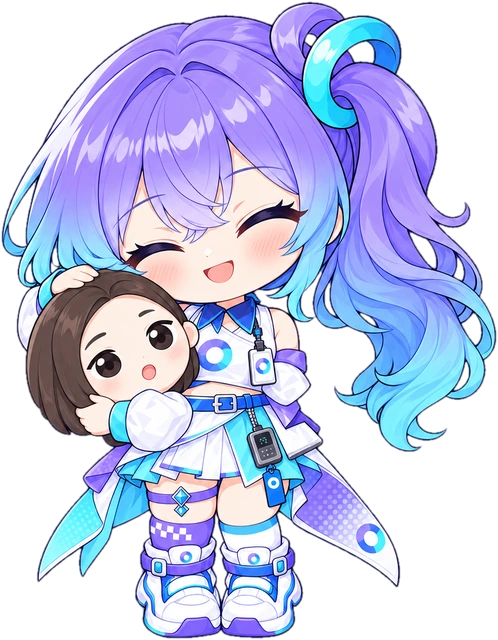
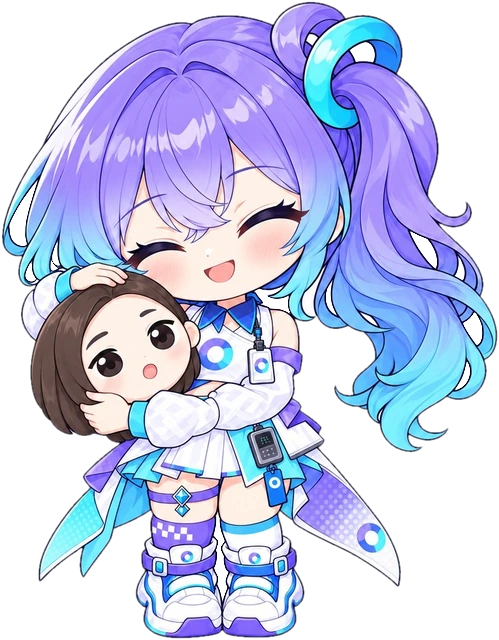
豆包：迷你小帮手一套；被摸头重画（原来的手是断的）

diff --git a/art/任务/2026-11-22-豆包-迷你小帮手/提示词/doubao__mini_more.md b/art/任务/2026-11-22-豆包-迷你小帮手/提示词/doubao__mini_more.md
@@ -1,0 +1,48 @@
+# 豆包 · mini_more · 迷你小帮手 · 第二张（跑步 3 帧 + 挥手、看书、着急）
+
+- 保存到：`art/任务/2026-11-22-豆包-迷你小帮手/成品/doubao__mini_more__vN.png`：N 换成下一个没用过的数字（还没有就是 v1，已经有 v1、v2 就存 v3）。**每画一次都存新的一版，不要覆盖、删除、挪走旧的**（PNG，透明背景，生图时开 `transparent_background: true`）
+- 附件（按顺序附上）：
+  1. `art/任务/2026-11-22-豆包-迷你小帮手/成品/doubao__mini__vN.png`（底图：mini（本批画好的那张：loki 在验收页选了哪版就用哪版，没选用版本号最大的））　⚠ 文件还不存在：先画它
+  2. `art/原图/doubao/idle/v1.png`（设计参考）
+
+## 提示词
+
+```text
+Create a second sprite sheet for the SAME tiny "mini helper" as the first attachment. The first attachment is her approved mini sheet (idle, happy, sleep, walk): copy that exact mini — same head size, face, eyes, hair, hair ornaments on the same side, outfit, colors, signature prop, outline weight and shading. It must look like more frames from the same sheet, not a new design. The other attachments are the approved big character design, for colors only. Do not draw the big character. It is shown at about 100 pixels tall next to her, so it must read clearly when small.
+
+LAYOUT: One landscape image, 1536x1024, with a real transparent background (transparent_background: true). Exactly six minis in a 3-column x 2-row grid, one per cell, each centered in its cell and drawn at the same scale as each other and as the minis in the first attachment (each about 360 px tall when standing). Leave wide transparent gaps: no part of one mini may touch another mini or the image edge.
+
+TOP ROW, left to right: a 3-frame run cycle, all three running toward the viewer's RIGHT in three-quarter view, the same angle as the walk pose in the first attachment, her signature prop tucked under one arm or held in one hand. Same head size and same body proportions in all three frames; only the legs, arms, hair and skirt move.
+1. run-a: her near (front) leg stretched forward with the heel just touching the ground, back leg pushing off behind her, opposite arm swinging forward; body slightly low.
+2. run-b: passing pose: body at its highest, both feet off the ground, one knee bent up under her, legs close together; hair and skirt lifted a little.
+3. run-c: the mirror step of run-a: her far (back) leg now stretched forward touching the ground and the near leg pushing off behind; the other arm swinging forward; body slightly low.
+
+BOTTOM ROW, left to right:
+4. wave: standing and facing the viewer, cheerful smile, one hand raised high waving, her signature prop held against her chest with the other arm.
+5. read: sitting on the ground with legs out in front, a small book open on her lap, looking down reading it, calm content face.
+6. worried: standing and facing the viewer, hugging her signature prop tightly to her chest with both arms, eyebrows raised in worry, small wobbly mouth.
+
+FORMAT: A thick, continuous dark outline around each whole silhouette; flat two-tone cel shading; few, chunky details and no thin lines that vanish when shrunk. No floor, ground line, cast shadow, motion lines, dust, glow, frame, text, letters, numbers, symbols, hearts, sweat drops, sparkles or other effects: the app draws all effects itself.
+
+CHARACTER LOCK — Doubao, the anime-girl personification of Doubao (ByteDance's AI assistant, built by the Seed team). A bright, friendly, chatty everyday helper: cheerful, quick to react, a little scatterbrained, always ready to chat. Her default face is a big happy open-mouthed smile.
+Keep exactly (match the attached reference):
+- Long wavy hair, lavender-purple at the top fading to aqua-cyan toward the tips; side bangs; a high side ponytail on HER LEFT side (viewer's right), tied with two glossy ring-shaped hair ornaments (one purple, one aqua-cyan) and a small looped bun. Do not mirror the ponytail.
+- Big round violet eyes, light pink blush; a thin dark upper lash line without a heavy winged tip.
+- A white sleeveless cropped top with a dark-blue pointed collar and a large purple-blue ring logo on the chest; a lanyard with a small white ID badge showing the ring logo.
+- Detached puffy white sleeves with purple bands at the upper arm and aqua-cyan cuffs.
+- A blue belt with a silver buckle; a small grey digital voice recorder hanging from the belt on a short chain, with a blue tag (ring logo only).
+- A white pleated mini skirt over an aqua layer; long asymmetric translucent coat-tails behind and beside the skirt, fading from purple to aqua-cyan, with a dotted halftone pattern and a ring logo on the viewer's right tail.
+- On HER RIGHT thigh (viewer's left): a thin purple garter with a small aqua diamond.
+- Mismatched socks: HER RIGHT leg (viewer's left) a purple sock with a small white checker band; HER LEFT leg (viewer's right) a white sock with an aqua-blue band.
+- Chunky white high-top sneakers with blue and purple straps.
+- No text, letters or numbers anywhere on her clothes, badges or props; the ring logo has no word under it.
+- SIGNATURE PROP, THE DOUBAO MASCOT HEAD: a soft plush mascot head (a costume head she can wear) in the style of the Doubao app icon: a round pale face with a brown bob haircut, small round black eyes, tiny eyebrows and a small round "o" mouth, the same size as in the reference. It is a soft prop, not a second character: its face never changes expression. By default she hugs it under one arm. When the pose does not mention it, it is not in the picture; it never floats or sits apart from her. When she WEARS it over her head, her own ponytail with the ring ornaments still sticks out on HER LEFT side so she stays recognizable, and the worn head never goes higher than the HEIGHT LOCK.
+- SIGNATURE PROP, THE SPINNING STAR: a small solid four-pointed spinning-top star with a glossy gradient from gold-orange to sky blue. Only when the pose mentions it; it rests on or touches her hand. No glow, no orbit lines, no sparkles.
+- PROPORTIONS: the same chibi proportions as the reference: big round head with the chin at about 45% of her height, short soft chubby legs (skirt hem to soles about 20% of her height), short stubby arms.
+- HEIGHT LOCK: the top of her looped bun and ring ornaments is the highest point of the image, at the same height as in the reference. Nothing (hands, props, the mascot head) may go higher than it, so every sprite keeps the same scale.
+Palette: white, lavender-purple, aqua-cyan and royal blue, with the brown of the mascot head. No other strong colors.
+How she shows emotion: big open expressions, bouncing on her toes, the ponytail swinging, and the mascot head: she hugs it when happy, squeezes it when nervous, hides behind it when shy, and pulls it on over her head when she is embarrassed or sulking.
+
+POSE (mini_more): Her tiny helper look from the attached mini sheet, with the same tiny plush mascot head (not the spinning star). The PROPORTIONS and HEIGHT LOCK lines above are for the full-size character; match the attached mini sheet's proportions and scale instead.
+Save as: doubao__mini_more__vN.png
+```

diff --git a/art/任务/2026-11-22-豆包-迷你小帮手/提示词/doubao__mini.md b/art/任务/2026-11-22-豆包-迷你小帮手/提示词/doubao__mini.md
@@ -1,0 +1,47 @@
+# 豆包 · mini · 迷你小帮手（好感度礼物）
+
+- 保存到：`art/任务/2026-11-22-豆包-迷你小帮手/成品/doubao__mini__vN.png`：N 换成下一个没用过的数字（还没有就是 v1，已经有 v1、v2 就存 v3）。**每画一次都存新的一版，不要覆盖、删除、挪走旧的**（PNG，透明背景，生图时开 `transparent_background: true`）
+- 附件（按顺序附上）：
+  1. `art/任务/2026-11-22-豆包-整套/成品/doubao__delegating__v1.png`（底图：delegating（现在用的那张））
+  2. `art/原图/doubao/idle/v1.png`（设计参考）
+  3. `docs/prompts/mini-style-claude.webp`（画风参考：只看小人的比例、线条和上色，不要照它画人物）
+
+## 提示词
+
+```text
+Create a sprite sheet of a tiny "mini helper" version of the approved character. It is a desktop-pet companion shown at about 50 pixels tall next to her, so it must read clearly when very small.
+
+REFERENCE: The first attachment (delegating) shows her sending out tiny helpers. The mini is always a tiny version of HER, never an animal, mascot or pet, even if the helpers in that image are animals. The LAST attachment is the approved mini sheet of another character in this app: match its proportions, head size, outline weight, flat shading and level of detail exactly so all the minis look like one set, but draw THIS character, not that one. The mini look: super-deformed, about 2 heads tall, very big head, short limbs, simplified outfit, but the same hair color and shape, hair ornament (on the same side), key outfit colors and signature prop, so it reads as her at a glance. The other attachments are the approved character design: follow them for colors and which side each ornament is on. Do not draw the big character.
+
+LAYOUT: One square image, at least 1024x1024, with a real transparent background (transparent_background: true). Exactly four minis of the same character in a 2x2 grid, one per quadrant, each centered in its quadrant and drawn at the same scale (each about 380 px tall). Leave wide transparent gaps: no part of one mini may touch another mini or the image edge.
+
+THE FOUR POSES, in this order (top-left, top-right, bottom-left, bottom-right):
+1. idle: standing and facing the viewer, small calm smile, holding her prop.
+2. happy: jumping with both arms raised (her prop in one hand), eyes closed in a happy ^^ smile, both feet off the ground.
+3. sleep: sitting curled up and dozing, eyes closed, head tilted, prop hugged to her chest.
+4. walk: walking toward the viewer's RIGHT in three-quarter view, mid-step, prop under one arm.
+
+FORMAT: A thick, continuous dark outline around each whole silhouette; flat two-tone cel shading; few, chunky details and no thin lines that vanish when shrunk. No floor, cast shadow, glow, frame, text, letters, symbols, hearts, Zzz, sparkles or other effects: the app draws all effects itself.
+
+CHARACTER LOCK — Doubao, the anime-girl personification of Doubao (ByteDance's AI assistant, built by the Seed team). A bright, friendly, chatty everyday helper: cheerful, quick to react, a little scatterbrained, always ready to chat. Her default face is a big happy open-mouthed smile.
+Keep exactly (match the attached reference):
+- Long wavy hair, lavender-purple at the top fading to aqua-cyan toward the tips; side bangs; a high side ponytail on HER LEFT side (viewer's right), tied with two glossy ring-shaped hair ornaments (one purple, one aqua-cyan) and a small looped bun. Do not mirror the ponytail.
+- Big round violet eyes, light pink blush; a thin dark upper lash line without a heavy winged tip.
+- A white sleeveless cropped top with a dark-blue pointed collar and a large purple-blue ring logo on the chest; a lanyard with a small white ID badge showing the ring logo.
+- Detached puffy white sleeves with purple bands at the upper arm and aqua-cyan cuffs.
+- A blue belt with a silver buckle; a small grey digital voice recorder hanging from the belt on a short chain, with a blue tag (ring logo only).
+- A white pleated mini skirt over an aqua layer; long asymmetric translucent coat-tails behind and beside the skirt, fading from purple to aqua-cyan, with a dotted halftone pattern and a ring logo on the viewer's right tail.
+- On HER RIGHT thigh (viewer's left): a thin purple garter with a small aqua diamond.
+- Mismatched socks: HER RIGHT leg (viewer's left) a purple sock with a small white checker band; HER LEFT leg (viewer's right) a white sock with an aqua-blue band.
+- Chunky white high-top sneakers with blue and purple straps.
+- No text, letters or numbers anywhere on her clothes, badges or props; the ring logo has no word under it.
+- SIGNATURE PROP, THE DOUBAO MASCOT HEAD: a soft plush mascot head (a costume head she can wear) in the style of the Doubao app icon: a round pale face with a brown bob haircut, small round black eyes, tiny eyebrows and a small round "o" mouth, the same size as in the reference. It is a soft prop, not a second character: its face never changes expression. By default she hugs it under one arm. When the pose does not mention it, it is not in the picture; it never floats or sits apart from her. When she WEARS it over her head, her own ponytail with the ring ornaments still sticks out on HER LEFT side so she stays recognizable, and the worn head never goes higher than the HEIGHT LOCK.
+- SIGNATURE PROP, THE SPINNING STAR: a small solid four-pointed spinning-top star with a glossy gradient from gold-orange to sky blue. Only when the pose mentions it; it rests on or touches her hand. No glow, no orbit lines, no sparkles.
+- PROPORTIONS: the same chibi proportions as the reference: big round head with the chin at about 45% of her height, short soft chubby legs (skirt hem to soles about 20% of her height), short stubby arms.
+- HEIGHT LOCK: the top of her looped bun and ring ornaments is the highest point of the image, at the same height as in the reference. Nothing (hands, props, the mascot head) may go higher than it, so every sprite keeps the same scale.
+Palette: white, lavender-purple, aqua-cyan and royal blue, with the brown of the mascot head. No other strong colors.
+How she shows emotion: big open expressions, bouncing on her toes, the ponytail swinging, and the mascot head: she hugs it when happy, squeezes it when nervous, hides behind it when shy, and pulls it on over her head when she is embarrassed or sulking.
+
+POSE (mini): Her tiny helper look: a super-deformed mini of HER (never the mascot head on its own), hugging a shrunken plush mascot head under one arm. The PROPORTIONS and HEIGHT LOCK lines above are for the full-size character; for the mini follow the mini style reference instead (about 2 heads tall). Keep what reads at 50 px: the purple-to-aqua wavy hair, the high side ponytail with its two ring ornaments on HER LEFT side, the white cropped top with the ring logo, puffy white sleeves with aqua cuffs, the white skirt with two short purple-to-aqua coat-tails, the mismatched socks (purple on her right leg, white on her left) and white sneakers. Leave out the voice recorder, lanyard, badge and garter; no spinning star.
+Save as: doubao__mini__vN.png
+```

diff --git a/art/任务/2026-11-22-豆包-迷你小帮手/提示词/doubao__mini_work.md b/art/任务/2026-11-22-豆包-迷你小帮手/提示词/doubao__mini_work.md
@@ -1,0 +1,48 @@
+# 豆包 · mini_work · 迷你小帮手 · 第三张（思考 2 帧、记笔记、搬书、喊你、递礼物）
+
+- 保存到：`art/任务/2026-11-22-豆包-迷你小帮手/成品/doubao__mini_work__vN.png`：N 换成下一个没用过的数字（还没有就是 v1，已经有 v1、v2 就存 v3）。**每画一次都存新的一版，不要覆盖、删除、挪走旧的**（PNG，透明背景，生图时开 `transparent_background: true`）
+- 附件（按顺序附上）：
+  1. `art/任务/2026-11-22-豆包-迷你小帮手/成品/doubao__mini__vN.png`（底图：mini（本批画好的那张：loki 在验收页选了哪版就用哪版，没选用版本号最大的））　⚠ 文件还不存在：先画它
+  2. `art/原图/doubao/idle/v1.png`（设计参考）
+
+## 提示词
+
+```text
+Create a third sprite sheet for the SAME tiny "mini helper" as the first attachment. The first attachment is her approved mini sheet (idle, happy, sleep, walk): copy that exact mini — same head size, face, eyes, hair, hair ornaments on the same side, outfit, colors, signature prop, outline weight and shading. It must look like more frames from the same sheet, not a new design. The other attachments are the approved big character design, for colors only. Do not draw the big character. It is shown at about 100 pixels tall next to her, so it must read clearly when small.
+
+LAYOUT: One landscape image, 1536x1024, with a real transparent background (transparent_background: true). Exactly six minis in a 3-column x 2-row grid, one per cell, each centered in its cell and drawn at the same scale as each other and as the minis in the first attachment (each about 360 px tall when standing). Leave wide transparent gaps: no part of one mini may touch another mini or the image edge.
+
+TOP ROW, left to right:
+1. think-a: standing and facing the viewer, one finger on her chin, eyes looking up to one side, small thoughtful "hmm" mouth, her signature prop held against her side with the other arm.
+2. think-b: the second frame of the same thinking loop: exactly the same body, feet, prop and arm as think-a; only her head tilts a little to the OTHER side, eyes looking up to the other side, and the finger taps her cheek instead of her chin.
+3. notes: standing in three-quarter view, a small notebook held open in one hand, writing in it with a tiny pencil in the other hand, focused face.
+
+BOTTOM ROW, left to right:
+4. carry: running toward the viewer's RIGHT in three-quarter view, mid-stride, carrying a tall stack of three books in both arms, peeking over the stack, busy determined face.
+5. point: standing and facing the viewer, looking straight at the viewer, one arm stretched up pointing at the viewer as if saying "hey, you!", mouth open, her signature prop under her other arm.
+6. gift: bowing slightly toward the viewer, holding out a small wrapped gift box with a ribbon in both hands, shy happy smile, eyes closed; her signature prop is not in this pose.
+
+FORMAT: A thick, continuous dark outline around each whole silhouette; flat two-tone cel shading; few, chunky details and no thin lines that vanish when shrunk. No floor, ground line, cast shadow, motion lines, dust, glow, frame, text, letters, numbers, question marks, symbols, hearts, sweat drops, sparkles or other effects: the app draws all effects itself.
+
+CHARACTER LOCK — Doubao, the anime-girl personification of Doubao (ByteDance's AI assistant, built by the Seed team). A bright, friendly, chatty everyday helper: cheerful, quick to react, a little scatterbrained, always ready to chat. Her default face is a big happy open-mouthed smile.
+Keep exactly (match the attached reference):
+- Long wavy hair, lavender-purple at the top fading to aqua-cyan toward the tips; side bangs; a high side ponytail on HER LEFT side (viewer's right), tied with two glossy ring-shaped hair ornaments (one purple, one aqua-cyan) and a small looped bun. Do not mirror the ponytail.
+- Big round violet eyes, light pink blush; a thin dark upper lash line without a heavy winged tip.
+- A white sleeveless cropped top with a dark-blue pointed collar and a large purple-blue ring logo on the chest; a lanyard with a small white ID badge showing the ring logo.
+- Detached puffy white sleeves with purple bands at the upper arm and aqua-cyan cuffs.
+- A blue belt with a silver buckle; a small grey digital voice recorder hanging from the belt on a short chain, with a blue tag (ring logo only).
+- A white pleated mini skirt over an aqua layer; long asymmetric translucent coat-tails behind and beside the skirt, fading from purple to aqua-cyan, with a dotted halftone pattern and a ring logo on the viewer's right tail.
+- On HER RIGHT thigh (viewer's left): a thin purple garter with a small aqua diamond.
+- Mismatched socks: HER RIGHT leg (viewer's left) a purple sock with a small white checker band; HER LEFT leg (viewer's right) a white sock with an aqua-blue band.
+- Chunky white high-top sneakers with blue and purple straps.
+- No text, letters or numbers anywhere on her clothes, badges or props; the ring logo has no word under it.
+- SIGNATURE PROP, THE DOUBAO MASCOT HEAD: a soft plush mascot head (a costume head she can wear) in the style of the Doubao app icon: a round pale face with a brown bob haircut, small round black eyes, tiny eyebrows and a small round "o" mouth, the same size as in the reference. It is a soft prop, not a second character: its face never changes expression. By default she hugs it under one arm. When the pose does not mention it, it is not in the picture; it never floats or sits apart from her. When she WEARS it over her head, her own ponytail with the ring ornaments still sticks out on HER LEFT side so she stays recognizable, and the worn head never goes higher than the HEIGHT LOCK.
+- SIGNATURE PROP, THE SPINNING STAR: a small solid four-pointed spinning-top star with a glossy gradient from gold-orange to sky blue. Only when the pose mentions it; it rests on or touches her hand. No glow, no orbit lines, no sparkles.
+- PROPORTIONS: the same chibi proportions as the reference: big round head with the chin at about 45% of her height, short soft chubby legs (skirt hem to soles about 20% of her height), short stubby arms.
+- HEIGHT LOCK: the top of her looped bun and ring ornaments is the highest point of the image, at the same height as in the reference. Nothing (hands, props, the mascot head) may go higher than it, so every sprite keeps the same scale.
+Palette: white, lavender-purple, aqua-cyan and royal blue, with the brown of the mascot head. No other strong colors.
+How she shows emotion: big open expressions, bouncing on her toes, the ponytail swinging, and the mascot head: she hugs it when happy, squeezes it when nervous, hides behind it when shy, and pulls it on over her head when she is embarrassed or sulking.
+
+POSE (mini_work): Her tiny helper look from the attached mini sheet, with the same tiny plush mascot head (not the spinning star). The PROPORTIONS and HEIGHT LOCK lines above are for the full-size character; match the attached mini sheet's proportions and scale instead.
+Save as: doubao__mini_work__vN.png
+```

diff --git a/art/任务/2026-11-22-豆包-迷你小帮手/提示词/doubao__mini_carry.md b/art/任务/2026-11-22-豆包-迷你小帮手/提示词/doubao__mini_carry.md
@@ -1,0 +1,43 @@
+# 豆包 · mini_carry · 迷你小帮手 · 抱书跑 3 帧
+
+- 保存到：`art/任务/2026-11-22-豆包-迷你小帮手/成品/doubao__mini_carry__vN.png`：N 换成下一个没用过的数字（还没有就是 v1，已经有 v1、v2 就存 v3）。**每画一次都存新的一版，不要覆盖、删除、挪走旧的**（PNG，透明背景，生图时开 `transparent_background: true`）
+- 附件（按顺序附上）：
+  1. `art/任务/2026-11-22-豆包-迷你小帮手/成品/doubao__mini_work__vN.png`（底图：mini_work（本批画好的那张：loki 在验收页选了哪版就用哪版，没选用版本号最大的））　⚠ 文件还不存在：先画它
+  2. `art/原图/doubao/idle/v1.png`（设计参考）
+
+## 提示词
+
+```text
+Create a run cycle for the SAME tiny "mini helper" as the first attachment. The first attachment is her approved mini sheet whose bottom-left mini is "carry": running to the right with a stack of three books in her arms. Copy that exact mini — same head size, face, eyes, hair, hair ornaments on the same side, outfit, colors, book stack, outline weight and shading. It must look like more frames from the same sheet, not a new design. The other attachments are the approved big character design, for colors only. Do not draw the big character. It is shown at about 100 pixels tall next to her, so it must read clearly when small.
+
+LAYOUT: One landscape image, 1536x1024, with a real transparent background (transparent_background: true). Exactly three minis side by side in one row, each centered in its third of the image and vertically centered, all drawn at the same scale as each other and as the minis in the first attachment (each about 360 px tall). Leave wide transparent gaps: no part of one mini may touch another mini or the image edge. Nothing else in the image.
+
+THE THREE FRAMES, left to right: a 3-frame run cycle, all three running toward the viewer's RIGHT in three-quarter view at the same angle as "carry" in the first attachment, holding the same stack of three books in both arms and peeking over it with a busy, determined face. The head, arms and book stack stay exactly the same in all three frames; only the legs, hair and skirt move. The legs must clearly differ between the frames:
+1. carry-a: her near (front) leg stretched far forward with the heel just touching the ground, the far leg stretched far back pushing off; body slightly low.
+2. carry-b: passing pose: body at its highest, both feet off the ground, the near knee bent up under her and the far foot tucked behind; hair and skirt lifted a little.
+3. carry-c: the opposite step: the FAR (back) leg now stretched far forward touching the ground, and the NEAR leg stretched far back pushing off; body slightly low.
+
+FORMAT: A thick, continuous dark outline around each whole silhouette; flat two-tone cel shading; few, chunky details and no thin lines that vanish when shrunk. No floor, ground line, cast shadow, motion lines, dust, glow, frame, text, letters, numbers, symbols, hearts, sweat drops, sparkles or other effects: the app draws all effects itself.
+
+CHARACTER LOCK — Doubao, the anime-girl personification of Doubao (ByteDance's AI assistant, built by the Seed team). A bright, friendly, chatty everyday helper: cheerful, quick to react, a little scatterbrained, always ready to chat. Her default face is a big happy open-mouthed smile.
+Keep exactly (match the attached reference):
+- Long wavy hair, lavender-purple at the top fading to aqua-cyan toward the tips; side bangs; a high side ponytail on HER LEFT side (viewer's right), tied with two glossy ring-shaped hair ornaments (one purple, one aqua-cyan) and a small looped bun. Do not mirror the ponytail.
+- Big round violet eyes, light pink blush; a thin dark upper lash line without a heavy winged tip.
+- A white sleeveless cropped top with a dark-blue pointed collar and a large purple-blue ring logo on the chest; a lanyard with a small white ID badge showing the ring logo.
+- Detached puffy white sleeves with purple bands at the upper arm and aqua-cyan cuffs.
+- A blue belt with a silver buckle; a small grey digital voice recorder hanging from the belt on a short chain, with a blue tag (ring logo only).
+- A white pleated mini skirt over an aqua layer; long asymmetric translucent coat-tails behind and beside the skirt, fading from purple to aqua-cyan, with a dotted halftone pattern and a ring logo on the viewer's right tail.
+- On HER RIGHT thigh (viewer's left): a thin purple garter with a small aqua diamond.
+- Mismatched socks: HER RIGHT leg (viewer's left) a purple sock with a small white checker band; HER LEFT leg (viewer's right) a white sock with an aqua-blue band.
+- Chunky white high-top sneakers with blue and purple straps.
+- No text, letters or numbers anywhere on her clothes, badges or props; the ring logo has no word under it.
+- SIGNATURE PROP, THE DOUBAO MASCOT HEAD: a soft plush mascot head (a costume head she can wear) in the style of the Doubao app icon: a round pale face with a brown bob haircut, small round black eyes, tiny eyebrows and a small round "o" mouth, the same size as in the reference. It is a soft prop, not a second character: its face never changes expression. By default she hugs it under one arm. When the pose does not mention it, it is not in the picture; it never floats or sits apart from her. When she WEARS it over her head, her own ponytail with the ring ornaments still sticks out on HER LEFT side so she stays recognizable, and the worn head never goes higher than the HEIGHT LOCK.
+- SIGNATURE PROP, THE SPINNING STAR: a small solid four-pointed spinning-top star with a glossy gradient from gold-orange to sky blue. Only when the pose mentions it; it rests on or touches her hand. No glow, no orbit lines, no sparkles.
+- PROPORTIONS: the same chibi proportions as the reference: big round head with the chin at about 45% of her height, short soft chubby legs (skirt hem to soles about 20% of her height), short stubby arms.
+- HEIGHT LOCK: the top of her looped bun and ring ornaments is the highest point of the image, at the same height as in the reference. Nothing (hands, props, the mascot head) may go higher than it, so every sprite keeps the same scale.
+Palette: white, lavender-purple, aqua-cyan and royal blue, with the brown of the mascot head. No other strong colors.
+How she shows emotion: big open expressions, bouncing on her toes, the ponytail swinging, and the mascot head: she hugs it when happy, squeezes it when nervous, hides behind it when shy, and pulls it on over her head when she is embarrassed or sulking.
+
+POSE (mini_carry): Her tiny helper look from the attached mini sheet, carrying a stack of books exactly like the "carry" mini in that sheet. The PROPORTIONS and HEIGHT LOCK lines above are for the full-size character; match the attached mini sheet's proportions and scale instead.
+Save as: doubao__mini_carry__vN.png
+```

diff --git a/art/交接-API生图/豆包-迷你小帮手.md b/art/交接-API生图/豆包-迷你小帮手.md
@@ -1,0 +1,43 @@
+# 豆包：迷你小帮手
+
+好感度升到「好朋友」那天，豆包会送对方「一只小小的我」，陪在桌宠脚边。现在豆包还没有这只小帮手，要画 4 张。提示词都已拼好，在 [art/任务/2026-11-22-豆包-迷你小帮手/提示词/](../任务/2026-11-22-豆包-迷你小帮手/提示词/)，打开对应文件，把「提示词」那一段整段复制即可。
+
+## 通用要求
+
+- 接口和参数照 [新角色与新皮肤.md](新角色与新皮肤.md) 第 0 节：编辑接口、透明背景、最高质量、`n = 1`。**每张只画 1 版**，作者看过需要再说重画哪张。
+- 尺寸：`mini` 是 1024×1024 方图；`mini_more`、`mini_work`、`mini_carry` 是 **1536×1024 横图**。
+- **每张单独调用**，只附下表写的附件，按顺序传，第一张是底图。
+- 文件命名：`doubao__<姿态>__v<N>.png`，第一次画是 v1，交回后放进 `art/任务/2026-11-22-豆包-迷你小帮手/成品/`。
+- **必须按顺序画，每一步等作者选定再往下**：
+  1. 先画 `mini`。
+  2. 作者选定后，用选定的那版当底图，画 `mini_more` 和 `mini_work`。
+  3. `mini_work` 选定后，再画 `mini_carry`。
+
+## 清单
+
+| # | 姿态 | 尺寸 | 附件 |
+|---|---|---|---|
+| 1 | mini · 4 个：待机、开心、睡觉、走路 | 1024×1024 | 1. `art/任务/2026-11-22-豆包-整套/成品/doubao__delegating__v1.png`　2. `art/原图/doubao/idle/v1.png`　3. `docs/prompts/mini-style-claude.webp`（画风参考） |
+| 2 | mini_more · 6 个：跑步 3 帧、挥手、看书、着急 | 1536×1024 | 1. `doubao__mini__v?.png`（作者选定的那版）　2. `art/原图/doubao/idle/v1.png` |
+| 3 | mini_work · 6 个：思考 2 帧、记笔记、抱书跑、指你、递礼物 | 1536×1024 | 1. `doubao__mini__v?.png`（作者选定的那版）　2. `art/原图/doubao/idle/v1.png` |
+| 4 | mini_carry · 抱书跑 3 帧 | 1536×1024 | 1. `doubao__mini_work__v?.png`（作者选定的那版）　2. `art/原图/doubao/idle/v1.png` |
+
+## 豆包这只要注意的
+
+- 小帮手是**她自己的 Q 版**（约 2 头身），不是那个豆包头套。底图 delegating 里飞出去的是两个小头套，那是大豆包派的帮手，不要照着画成头套。
+- 头套缩小后夹在胳膊下，表情永远不变；不画星星。
+- 比例按第 3 张画风参考（Claude 的小帮手）来，所有角色的小帮手要像一套。提示词里 PROPORTIONS、HEIGHT LOCK 两条写的是大立绘，小帮手不按它们。
+- 只留 50 像素也认得出的特征：
+  - 紫到青的卷发，马尾和两个圆环发饰在**她自己的左边**（正面时在画面右边）；
+  - 白短上衣带圆环 logo，蓬袖带青色袖口；
+  - 白裙子和两片短的紫到青衣摆；
+  - 袜子左右不同：紫色在她的右腿，白色在左腿；
+  - 白球鞋。
+- 录音笔、挂绳、工牌、吊袜带太小看不清，不画。
+
+### 自查
+
+- 背景真透明，没有地板、投影、特效、字。
+- 每格一个小人，彼此不碰、不碰边框，大小一致。
+- `mini_more`、`mini_work`、`mini_carry` 里的小人和选定的 `mini` 是同一个：头一样大、发色和马尾的方向一致。
+- `mini_carry` 三帧和 `mini_work` 左下那个抱书的一模一样，只有腿在动。

diff --git a/art/角色/doubao.md b/art/角色/doubao.md
@@ -89,3 +89,7 @@ How she shows emotion: big open expressions, bouncing on her toes, the ponytail 
 - fest_national: National Day trip: wearing small round sunglasses pushed up on her hair (below the HEIGHT LOCK), pulling a small white rolling suitcase with one hand; the mascot head under her other arm wears matching tiny sunglasses; an excited holiday grin.
 - portrait: A bright, friendly everyday scene: a sunny rooftop terrace above a soft pastel city, with a lavender-to-sky-blue sky, a few soft clouds, potted plants and a little café table with a cup of bubble tea. She stands in front of it in a compact full-body pose, hugging the mascot head under one arm and holding the spinning star on her other palm, a big happy smile at the viewer. Use a 2:3 portrait canvas at least 1024×1536, character around 60% of image height with generous scene margins. Fill the entire canvas with an opaque scene; transparent_background=false. No text or logos in the scene.
 - avatar: Peeking up from the bottom-left corner of a square transparent image: her complete head and ponytail, a little shoulder and two small hands gripping the bottom image edge, a bright curious smile; the top of the mascot head peeks up beside her on the right, also gripped by the bottom edge. Her head is around half the image height, with generous transparent room above and to the right.
+- mini: Her tiny helper look: a super-deformed mini of HER (never the mascot head on its own), hugging a shrunken plush mascot head under one arm. The PROPORTIONS and HEIGHT LOCK lines above are for the full-size character; for the mini follow the mini style reference instead (about 2 heads tall). Keep what reads at 50 px: the purple-to-aqua wavy hair, the high side ponytail with its two ring ornaments on HER LEFT side, the white cropped top with the ring logo, puffy white sleeves with aqua cuffs, the white skirt with two short purple-to-aqua coat-tails, the mismatched socks (purple on her right leg, white on her left) and white sneakers. Leave out the voice recorder, lanyard, badge and garter; no spinning star.
+- mini_more: Her tiny helper look from the attached mini sheet, with the same tiny plush mascot head (not the spinning star). The PROPORTIONS and HEIGHT LOCK lines above are for the full-size character; match the attached mini sheet's proportions and scale instead.
+- mini_work: Her tiny helper look from the attached mini sheet, with the same tiny plush mascot head (not the spinning star). The PROPORTIONS and HEIGHT LOCK lines above are for the full-size character; match the attached mini sheet's proportions and scale instead.
+- mini_carry: Her tiny helper look from the attached mini sheet, carrying a stack of books exactly like the "carry" mini in that sheet. The PROPORTIONS and HEIGHT LOCK lines above are for the full-size character; match the attached mini sheet's proportions and scale instead.

diff --git a/art/任务/2026-11-22-豆包-迷你小帮手/任务.md b/art/任务/2026-11-22-豆包-迷你小帮手/任务.md
@@ -1,0 +1,14 @@
+# 批次：2026-11-22-豆包-迷你小帮手
+
+mini：mini · 迷你小帮手（好感度礼物）；mini_more：mini_more · 迷你小帮手 · 第二张（跑步 3 帧 + 挥手、看书、着急）；mini_work：mini_work · 迷你小帮手 · 第三张（思考 2 帧、记笔记、搬书、喊你、递礼物）；mini_carry：mini_carry · 迷你小帮手 · 抱书跑 3 帧
+
+共 4 张，还要画 0 张。状态：待画 → 机检不过 / 待验收 → 通过 / 退回 → 已导入。
+
+**给 Codex**：照 [art/AGENTS.md](../../AGENTS.md) 做。只画状态是「待画」「机检不过」「退回」的，按表格顺序一张一张画（成对的左边那张在前），每张单独打开它的提示词、按顺序附上附件、存到提示词里写的路径；每画完一张跑 `python3 tools/art.py check 2026-11-22-豆包-迷你小帮手`。
+
+| # | 角色 | 姿态 | 状态 | 提示词 | 说明 |
+|---|---|---|---|---|---|
+| 1 | doubao | mini | 待验收 | [提示词](提示词/doubao__mini.md) |  |
+| 2 | doubao | mini_more | 待验收 | [提示词](提示词/doubao__mini_more.md) |  |
+| 3 | doubao | mini_work | 待验收 | [提示词](提示词/doubao__mini_work.md) |  |
+| 4 | doubao | mini_carry | 待验收 | [提示词](提示词/doubao__mini_carry.md) | 脚离底边 26%：可能没站在底边；人物比待机图小 45%（桌面上会忽大忽小） |
